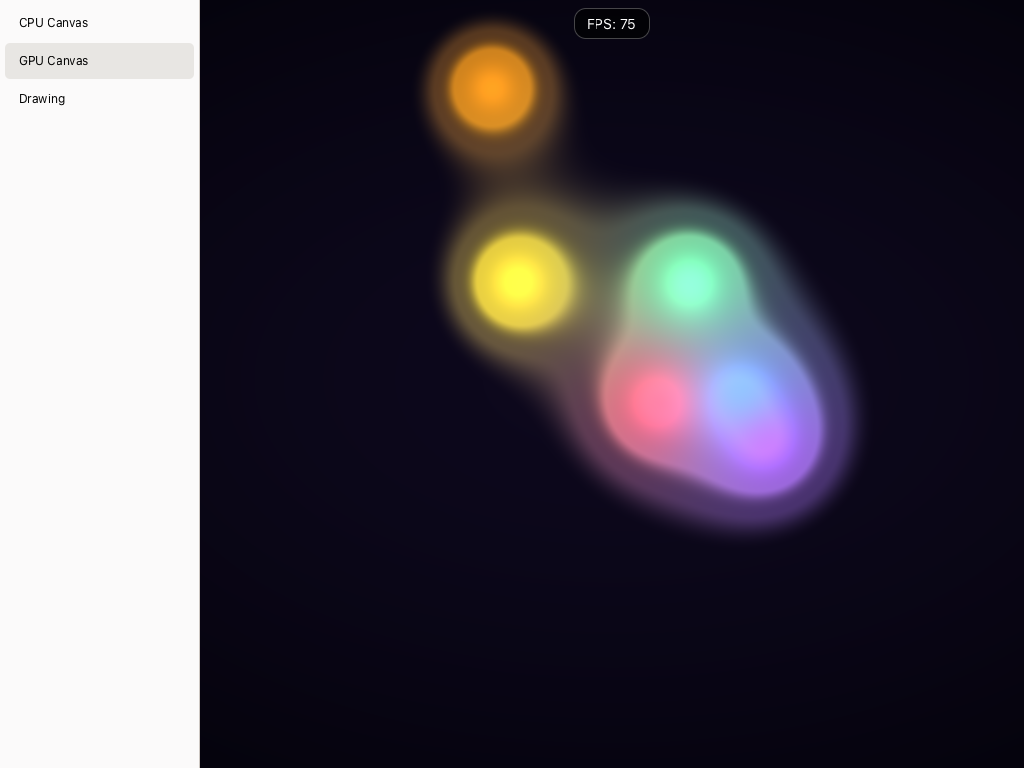
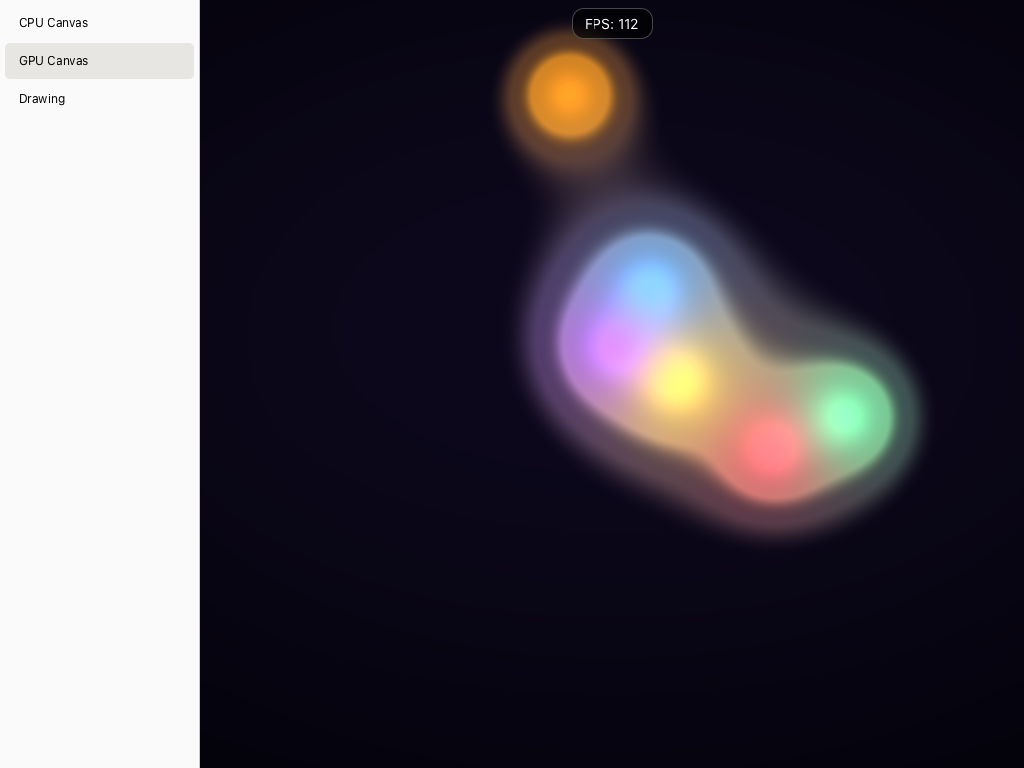
Refresh GTK4 sample screenshots and align its README
Recapture CPU, GPU and Drawing through the current native GTK4 scene graph at consistent 1024x768 dimensions. The Drawing capture remains byte-for-byte unchanged.

Follow the other Basic samples' page/features, requirements, running and screenshot structure. Remove implementation-level GL/Vulkan and deferred-theme commentary, and accurately document the CPU sample's default SKFont.

Changed region(s): [[0.4062, 0.0, 0.9062, 0.7188]]

diff --git a/samples/Basic/Gtk4/README.md b/samples/Basic/Gtk4/README.md
@@ -1,6 +1,6 @@
 # SkiaSharp GTK 4 Sample
 
-Demonstrates SkiaSharp running in a GTK 4 desktop app with tab-based navigation and UI Builder layout support.
+Demonstrates SkiaSharp views in a GTK 4 desktop app with sidebar navigation, UI Builder layout support, and mouse interaction.
 
 ## Sample Pages
 
@@ -13,36 +13,38 @@ A static scene rendered on the CPU — a radial gradient background overlaid wit
 **Features:**
 
 - **`SKDrawingArea`** — Software-rendered canvas backed by a `Gtk.DrawingArea`, the standard GTK 4 drawing surface.
-- **Pixel scaling** — By default, paint coordinates and `CanvasSize` use physical display pixels; set `IgnorePixelScaling` to draw in GTK logical pixels instead. `RawInfo` always describes the backing surface.
 - **`SKShader`** — Radial gradient background created with `SKShader.CreateRadialGradient`.
 - **`SKCanvas.DrawCircle`** — Semi-transparent colored circles composited over the gradient.
 - **`SKCanvas.DrawText`** — Centered "SkiaSharp" text rendered with measured alignment.
-- **`SKTypeface`** — Custom font loaded via `SKTypeface.FromStream`.
+- **`SKFont`** — Text size scaled to the canvas width, using the default typeface.
 
 ### GPU
 
-An animated, interactive SkSL metaball shader rendered on a real OpenGL-backed SkiaSharp surface.
+A real-time animated shader running on the GPU via OpenGL or OpenGL ES, with mouse interaction that adds a white-hot blob to the metaball field.
 
 **Features:**
 
-- **`SKGLArea`** — Hardware-accelerated canvas backed by `Gtk.GLArea`; no CPU canvas fallback. Leaves GTK's API selection at its default, permitting desktop OpenGL or OpenGL ES according to the available backend and driver.
-- **`SKRuntimeEffect`** — Shader compiled once and updated with time, resolution, and mouse-position uniforms each frame.
-- **Render loop** — GTK frame-clock-driven animation with an FPS pill made from a native `Gtk.Box` and `Gtk.Label`, paused whenever the tab is hidden.
-- **Pointer input** — Press and drag to add a bright blob to the scene.
+- **`SKGLArea`** — Hardware-accelerated canvas backed by `Gtk.GLArea`, using GTK's available OpenGL or OpenGL ES context.
+- **`SKRuntimeEffect`** — SkSL metaball "lava lamp" shader compiled at runtime with `SKRuntimeEffect.BuildShader`.
+- **Render loop** — Continuous animation driven by `EnableRenderLoop` with a native GTK FPS counter pill overlay.
+- **Mouse interaction** — Press and drag to pass the mouse position as a shader uniform.
+- **Lifecycle management** — Render loop starts/stops on GTK map/unmap events to avoid background GPU work when the page is not visible.
 
 ### Drawing
 
-A freehand drawing canvas with a color palette, brush size label, and clear button. Strokes persist across color and size changes.
+A freehand drawing canvas with a floating toolbox for choosing colors and brush sizes, and a clear button. Strokes persist across color and size changes.
 
 **Features:**
 
 - **`SKDrawingArea`** — Software-rendered canvas invalidated on demand after each stroke or clear.
-- **Drawing canvas** — A fixed white background and standard color palette; light/dark mode support is deferred.
 - **`SKPath`** — Freehand strokes captured as paths with `MoveTo` and `LineTo` from GTK gesture events.
 - **`GestureDrag`** — GTK 4 drag gesture for tracking press, move, and release.
 - **`EventControllerScroll`** — Scroll wheel to adjust brush size.
-- **Color palette** — Six selectable colors with a blue ring around the selected swatch.
-- **Native toolbox** — GTK buttons, scale, labels and boxes, with the same palette, dimensions and narrow-window arrangement as the MAUI sample. No custom UI controls.
+- **Color palette** — Six selectable colors with a blue ring around the selected swatch, on a fixed white canvas.
+- **Brush size** — Adjustable stroke width (1–50px) via a native GTK scale or scroll wheel.
+- **Brush cursor** — Semi-transparent circle indicator showing brush size at the cursor position.
+- **Adaptive layout** — Native GTK toolbox reflows for narrow windows.
+- **DPI scaling** — Physical display pixels by default; `IgnorePixelScaling` selects logical paint coordinates.
 
 ## Requirements
 
@@ -52,12 +54,8 @@ A freehand drawing canvas with a color palette, brush size label, and clear butt
   - **Ubuntu/Debian:** `sudo apt-get install libgtk-4-dev`
   - **Fedora:** `sudo dnf install gtk4-devel`
   - **Windows:** Install a GTK4 runtime using [MSYS2 or gvsbuild](https://www.gtk.org/docs/installations/windows/) and put its `bin` directory on `PATH`. For MSYS2 UCRT64, install `mingw-w64-ucrt-x86_64-gtk4` and use `C:\msys64\ucrt64\bin`.
-- A working GTK display and GL driver for the GPU page. GTK selects an available desktop OpenGL or OpenGL ES context; Windows can use EGL/ANGLE when the GTK runtime provides it. The native macOS backend uses desktop OpenGL.
-- GTK's libepoxy dispatcher must be present alongside GTK (`libepoxy.so.0`, `libepoxy.0.dylib`, or `libepoxy-0.dll`/`epoxy-0.dll`). It is a separate required dependency installed automatically by the GTK packages above, not bundled in the managed NuGet packages. Manually bundled GTK runtimes must include it.
-
-`Gtk.GLArea` does not expose its framebuffer binding, stencil bit count or sample count as properties; GTK's own render example queries the framebuffer using `glGetIntegerv`. `SKGLArea` queries the stencil attachment size directly, since the legacy `GL_STENCIL_BITS` integer query is not valid in desktop core profiles. It resolves these queries and Skia's GL entry points through libepoxy, the same current-context dispatcher GTK uses. This avoids loading an unrelated GL implementation when GTK selects EGL/ANGLE instead of WGL or GLX.
-
-GTK 4 can use Vulkan to composite its own scene graph, but it does not expose a Vulkan drawing widget analogous to `Gtk.GLArea`. The GPU page uses OpenGL/OpenGL ES; a future Vulkan-backed SkiaSharp view would need application-owned Vulkan resources and a GTK-compatible texture import/synchronization path.
+- A working GTK display and OpenGL/OpenGL ES driver for the GPU page.
+- GTK's libepoxy dispatcher, installed automatically by the GTK packages above. Manually bundled GTK runtimes must include it.
 
 ## Running the Sample
 
@@ -73,10 +71,6 @@ On macOS, include Homebrew's native library directory so GirCore can load GTK an
 DYLD_LIBRARY_PATH="$(brew --prefix)/lib" dotnet run --project SkiaSharpSample/SkiaSharpSample.csproj
 ```
 
-The sample does not detect, synchronize or override light/dark appearance. Native controls use GTK's default styling; the Drawing canvas and palette are fixed. Theme-aware sample rendering can be added separately later.
-
-GTK's native sidebar, widget styling and input controllers remain platform-specific. Input positions are always GTK logical coordinates, independently of `IgnorePixelScaling`; the Drawing page converts them to the physical canvas coordinates, like the other desktop samples. It retains the desktop samples' mouse brush preview. The toolbox wraps at 600 pixels of available page width rather than including the navigation sidebar.
-
 To start on a different page, change `DefaultPage` in `MainWindow.cs`:
 
 ```csharp
@@ -89,4 +83,4 @@ Available pages: `Cpu` (default), `Gpu`, `Drawing`
 
 | CPU | GPU | Drawing |
 |---|---|---|
-| <img src="screenshots/cpu.png" width="350" alt="CPU"> | <img src="screenshots/gpu.png" width="350" alt="GTK4 GPU shader and native FPS pill on macOS OpenGL"> | <img src="screenshots/drawing.png" width="350" alt="Drawing with a fixed white canvas and native toolbox"> |
+| <img src="screenshots/cpu.png" width="350" alt="CPU"> | <img src="screenshots/gpu.png" width="350" alt="GPU"> | <img src="screenshots/drawing.png" width="350" alt="Drawing"> |
